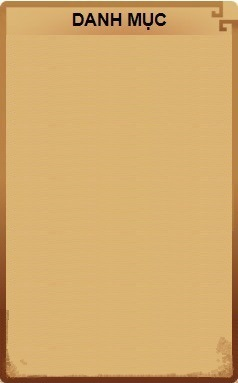
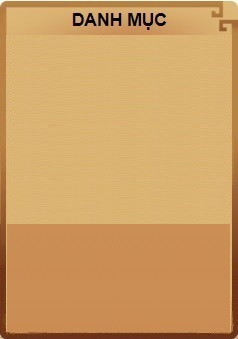
Phuc chau con

diff --git a/assets/css/style.css b/assets/css/style.css
@@ -20,7 +20,9 @@ li {list-style: none;}
   background-color: rgba(109, 112, 109, 0.014);}
 /* end thuộc tính chung */
 /* end thuộc tính chung */
-
+main {
+  display: block;
+}
 body {background-image: url(../images/Nen_Rong_Cuon.png);
   background-repeat: repeat;
   background-size:contain;}
@@ -288,15 +290,16 @@ body {background-image: url(../images/Nen_Rong_Cuon.png);
   border-right: 2px solid #cb1111;
 }
 .slidertext_content li a { 
+  display: block;
+  font-size: 14px;
   color: #19191a;
-  font-size: 13px;
+  line-height: 1.4;
   font-style: italic;
   font-family: serif;
-  line-height: 1.4;
-  font-weight: bold;
-  display: block;
+  font-weight: 600;
 }
-.slidertext_content li a:hover { 
+.slidertext_content li:hover a { 
+  color: red;
   text-decoration: underline;
 }
 
@@ -324,55 +327,45 @@ body {background-image: url(../images/Nen_Rong_Cuon.png);
   width: 18%;
   margin: 0.2% 0;
 }
-
 .sidebar_lestnav {
-  width: 100%;
-  height: 87%;
+  height: 80%;
   overflow:scroll;
   background-image: url(../images/Nen_Saibar8_rong.jpg);
   background-repeat: no-repeat;
   background-size: contain;
   border-radius: 10px;
 }
-.sidebar_lestnavbar,
-.sidebar_rightnavbar {
+.sidebar_lestnavbar {
   top:12%;
-  display: block;
+  margin: 3%;
   position: relative;
+  background: linear-gradient(#dbb574 0%, #ca8c53 100%);
 }
-
-.rightnavbar_list,
-.lestnavbar_list {
-  width: 97%;
-  margin: 1% auto 0;
-  border-radius: 10px;
-
+.lestnavbar_list a {
+  background-image: url(../images/dm_bt.png);
 }
 .lestnavbar_list a,
 .rightnavbar_list a {
-  width: 100%;
   display: block;
+  margin: 1% auto 0;
   padding: 4% 0;
-  font-size: 11px;
   color: #19191a;
-  font-weight: bold;
+  font-size: 10px;
+  font-weight: 600;
+  letter-spacing: 1px;
   text-align: center;
+  font-family: Arial, sans-serif;
   text-transform: uppercase;
   background-size: contain;
   background-position: center;
   background-clip: border-box;
   background-repeat: no-repeat;
-  background-image: url(../images/dm_bt.png);
-
 }
-
-
 .rightnavbar_list a:hover,
 .lestnavbar_list a:hover {
   color: #ff0000;
   background-image: url(../images/dm_hoverr.png);
 }
-
 .sidebarlest_catalog {
   width: 10%;
   background-color: #ca391fd2;
@@ -382,8 +375,8 @@ body {background-image: url(../images/Nen_Rong_Cuon.png);
 
 #about_content {
   position:relative;
-  width: 63.5%;
   margin-top: 0.2%;
+  width: 63.5%;
 }
 
 .loinoidau_img {
@@ -405,7 +398,7 @@ body {background-image: url(../images/Nen_Rong_Cuon.png);
 
 .about_paragraph {
   position: absolute;
-  top: 40%;
+  top: 38%;
   left: 50%;
   width: 100%;
   height: 45%;
@@ -414,7 +407,7 @@ body {background-image: url(../images/Nen_Rong_Cuon.png);
   overflow-y: scroll;
 }
 .about_text {
-  font-size: 12px;
+  font-size: 13px;
   font-style: italic;
   font-family: serif;
   text-indent: 35px;
@@ -429,38 +422,36 @@ body {background-image: url(../images/Nen_Rong_Cuon.png);
 }
 
 .sidebar_rightnav {
-  width: 100%;
-  height: 87%;
+  height: 64%;
   overflow:scroll;
-  background-image: url(../images/Nen_Saibar8_right.jpg);
-  background-repeat: no-repeat;
-  background-size: contain;
   border-radius: 10px;
+  background-size: contain;
+  background-repeat: no-repeat;
+  background-clip: content-box;
+  background-image: url(../images/Nen_Saibar8_right_tintuc.jpg);
 }
 
-.sidebar_rightnavbar {
 
+.sidebar_rightnavbar {
+  top: 16%;
+  margin: 4%;
+  padding-bottom: 2%;
+  background: linear-gradient(#dbb574 0%, #ca8c53 100%);
+  position: relative;
 }
 .rightnavbar_list {
 
 }
-
-main {
-  display: block;
-
+.rightnavbar_list a {
+  background-image: url(../images/wlbg_nenvideo_ao.png);
+  color: yellow;
 }
+
 
 /* end !!!!!!!!!!!!!!!!!!!!!!!!!!!!!!!!!!! */
 /* end !!!!!!!!!!!!!!!!!!!!!!!!!!!!!!!!!!! */
 
 /* 
-li a.active, #menu li a:hover {
-  background: url(../img/menu/dm_hover.png) scroll no-repeat center center;
-  text-decoration: none;
-  color: red;
-} */
-
-
 
 /* 
  marquee {   

diff --git a/index.html b/index.html
@@ -120,11 +120,11 @@
           </div>
           <div class="slider_text">
             <ul class="slidertext_content">
+              <li><a href="#">Tử hiếu Tôn hiền vạn đại vinh</a></li>
+              <li><a href="#">Tổ tông công đức Thiên niên thịnh</a></li>
               <li><a href="#">Lịch sử hình thành và phát triển dòng Họ Nguyễn ở Việt Nam</a></li>
-              <li><a href="#">Không có gì cho vào đây chán nhỉ?</a></li>
-              <li><a href="#">Chuyên gia lên tiếng trước lễ hội đang gây tranh cãi ở Lạng Sơn</a></li>
-              <li><a href="#">Sách về gia phả Việt được trưng bày</a></li>
-              <li><a href="#">Xây dựng gia phả, giải tỏa khúc mắc lịch sử</a></li>
+              <li><a href="#">Khởi lòng cầu mong phúc cháu con</a></li>
+              <li><a href="#">Đăng nhang thành kính dâng Tiên Tổ</a></li>
             </ul>
           </div>
 
@@ -140,12 +140,12 @@
             <div class="sidebar_lestnav">
               <ul class="sidebar_lestnavbar">
                 <li class="lestnavbar_list"><a href="#">Trang chủ</a></li>
-                <li class="lestnavbar_list"><a href="#">Giới thiệu</a></li>
+                <li class="lestnavbar_list"><a href="#slider">Giới thiệu</a></li>
                 <li class="lestnavbar_list"><a href="#">Phả đồ</a></li>
                 <li class="lestnavbar_list"><a href="#">Phả hệ</a></li>
                 <li class="lestnavbar_list"><a href="#">Hương ước</a></li>
                 <li class="lestnavbar_list"><a href="#">Từ đường</a></li>
-                <li class="lestnavbar_list"><a href="#">Lăng mộ</a></li>
+                <li class="lestnavbar_list"><a href="#">Lăng - mộ phần</a></li>
                 <li class="lestnavbar_list"><a href="#">Tìm cội nguồn</a></li>
               </ul>
             </div>
@@ -265,13 +265,11 @@
           <div id="sidebar_right">
             <div class="sidebar_rightnav">
               <ul class="sidebar_rightnavbar">
-                <li class="rightnavbar_list"><a href="#">Đang nâng cấp</a></li>
-                <li class="rightnavbar_list"><a href="#">Đang nâng cấp</a></li>
-                <li class="rightnavbar_list"><a href="#">Đang nâng cấp</a></li>
-                <li class="rightnavbar_list"><a href="#">Đang nâng cấp</a></li>
-                <li class="rightnavbar_list"><a href="#">Đang nâng cấp</a></li>
-                <li class="rightnavbar_list"><a href="#">Đang nâng cấp</a></li>
-                <li class="rightnavbar_list"><a href="#">Đang nâng cấp</a></li>
+                <li class="rightnavbar_list"><a href="#">Thời sự Quốc tế</a></li>
+                <li class="rightnavbar_list"><a href="#">Tin trong nước</a></li>
+                <li class="rightnavbar_list"><a href="#">Họ nguyễn Việt nam</a></li>
+                <li class="rightnavbar_list"><a href="#">Quê hương Ninh bình</a></li>
+                <li class="rightnavbar_list"><a href="#">Vĩ nhân Họ Nguyễn</a></li>
                 <li class="rightnavbar_list"><a href="#">Đang nâng cấp</a></li>
               </ul>
             </div>
